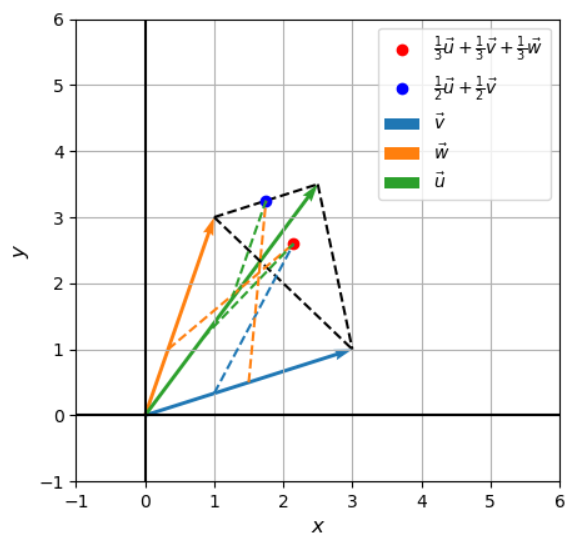
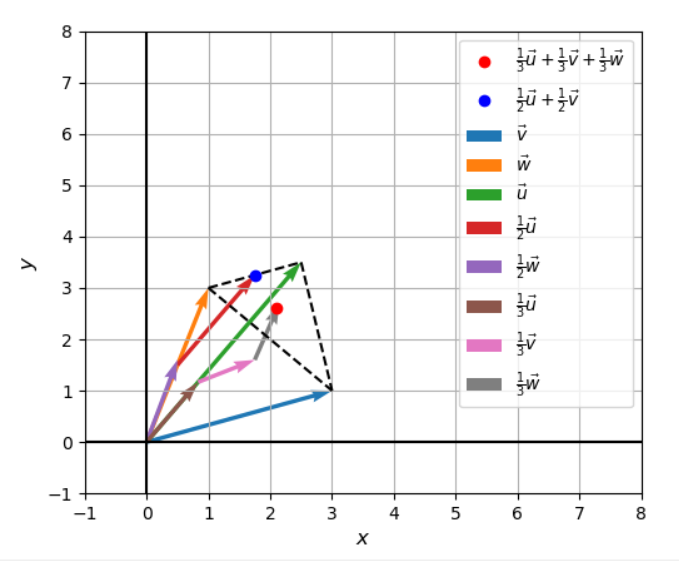
New changes.

Changed region(s): [[0.0614, 0.0312, 0.9829, 0.9358], [0.5222, 0.9358, 0.5529, 0.9982], [0.0307, 0.4367, 0.0614, 0.4991]]

diff --git a/Math/Linear Algebra/code_snippets/ch1_1-1_20.py b/Math/Linear Algebra/code_snippets/ch1_1-1_20.py
@@ -24,22 +24,29 @@ plt.plot([2.5, 3], [3.5, 1], 'k--')
 plt.plot([1, 3], [3, 1], 'k--')
 
 # (1/3)u + (1/3)v + (1/3)w
-plt.plot(2.15, 2.6, 'ro', label=r'$\frac{1}{3}\vec{u} + \frac{1}{3}\vec{v} + \frac{1}{3}\vec{w}$')
+plt.plot(2.1, 2.6, 'ro', label=r'$\frac{1}{3}\vec{u} + \frac{1}{3}\vec{v} + \frac{1}{3}\vec{w}$')
 
 # (1/2)u + (1/2)w
 plt.plot(1.75, 3.25, 'bo', label=r'$\frac{1}{2}\vec{u} + \frac{1}{2}\vec{v}$')
 
-# Addition dotted lines.
-plt.plot([1, 2.15], [0.333, 2.6], 'C0--')
-plt.plot([0.333, 2.15], [1, 2.6], 'C1--')
-plt.plot([0.833, 2.15], [1.167, 2.6], 'C2--')
+# (1/2)u
+plt.quiver(0.5, 1.5, 1.25, 1.75, color='C3', angles='xy', scale_units='xy', scale=1, label=r'$\frac{1}{2}\vec{u}$')
 
-plt.plot([1.5, 1.75], [0.5, 3.25], 'C1--')
-plt.plot([1.25, 1.75], [1.75, 3.25], 'C2--')
+# (1/2)w
+plt.quiver(0, 0, 0.5, 1.6, color='C4', angles='xy', scale_units='xy', scale=1, label=r'$\frac{1}{2}\vec{w}$')
+
+# (1/3)u
+plt.quiver(0, 0, 0.8333, 1.1666, color='C5', angles='xy', scale_units='xy', scale=1, label=r'$\frac{1}{3}\vec{u}$')
+
+# (1/3)v
+plt.quiver(0.8333, 1.1666, 0.9167, 0.4333, color='C6', angles='xy', scale_units='xy', scale=1, label=r'$\frac{1}{3}\vec{v}$')
+
+# (1/3)w
+plt.quiver(1.75, 1.6, 0.3999, 1.1, color='C7', angles='xy', scale_units='xy', scale=1, label=r'$\frac{1}{3}\vec{w}$')
 
 # Miscellaneous.
-plt.xlim(-1, 6)
-plt.ylim(-1, 6)
+plt.xlim(-1, 8)
+plt.ylim(-1, 8)
 plt.axhline(0, color='black')
 plt.axvline(0, color='black')
 plt.xlabel(r'$x$', fontsize='large')
